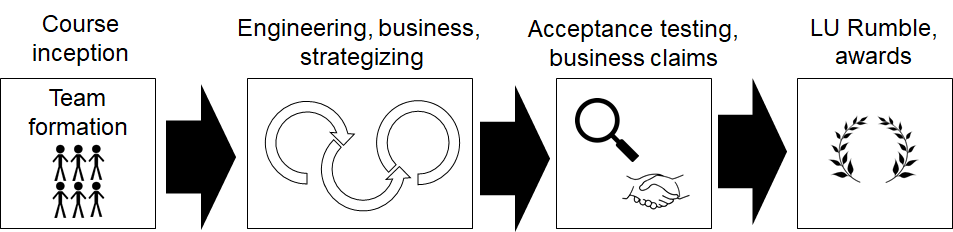
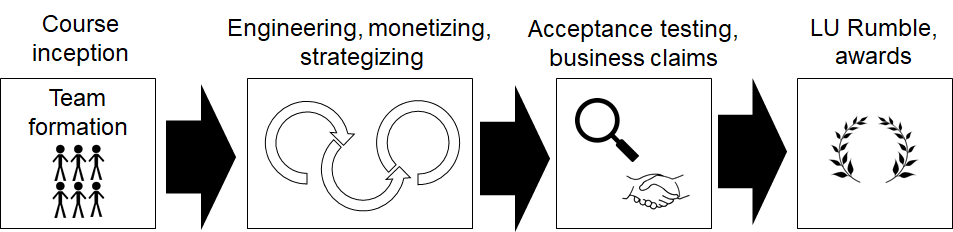
Added the project overview

Changed region(s): [[0.213, 0.0603, 0.5173, 0.181]]

diff --git a/project/rumble/ProjectInstructions.tex b/project/rumble/ProjectInstructions.tex
@@ -83,7 +83,7 @@ On top of your skills with traditional software engineering concepts and the too
 TODO: Make sure this is aligned with the formal course description.
 
 \section{Robocode -- Build the best, destroy the rest!}
-The goal of Robocode is to implement the behavior of a robot to compete against other robots in a battle arena. The contestants have no direct influence on the game, instead they write the AI of the robot telling it how to behave and react on events occurring in the battle arena. Battles are running in real-time and on-screen, see Figure~\ref{fig:screenshot}.
+The goal of Robocode is to implement the behavior of a robot to compete against other robots in a battle arena. The contestants have no direct influence on the game, instead they write the AI of the robot telling it how to behave and react on events occurring in the battle arena. Battles are running in real-time and on-screen, see Figure~\ref{fig:screenshot}. Robocode battles, referred to as ``rumbles'', are either in the form of duels between individual robots, free-for-all battles with multiple robots, or battles between robot teams.
 
 \begin{figure}
 \centering
@@ -97,26 +97,38 @@ Robocode offers complete development environment, and comes with its own install
 
 Robocode is an Open Source project, which means that all sources are open to everybody. In addition, Robocode is provided under the terms of EPL (Eclipse Public License). The Robocode game was originally started by Mathew A. Nelson as a personal endeavor in late 2000 and became a professional one when he brought it to IBM in July 2001. In the beginning of 2005, Mathew convinced IBM to release Robocode as Open Source on SourceForge. Eventually, Flemming N. Larsen took over the Robocode project at SourceForge as administrator and developer in July 2006 to continue the original Robocode game -- which now is hosted on GitHub.
 
+\section{Project overview}
+Each project team will develop a robot using established software engineering practices. Furthermore, each team will compose a robot team to compete in a ``LU Rumble'' at the final lecture in the course. However, no team is allowed to field their own robot -- instead robots developed by other teams must be purchased on an open market (in truth a somewhat regulated market). Consequently, each team has two primary goals: 1) maximizing profit by selling a successfully engineered robot on the market and 2) winning the LU Rumble by composing a competitive Robocode team. Teams pursue the two goals by completing three main activities that we refer to as \textit{strategizing}, \textit{engineering}, and \textit{monetizing}, respectively.
+
+Figure~\ref{fig:overview} shows the four main phases of the project. First, during the course inception, the course infrastructure and the project tasks are introduce. More importantly, teams consisting of six students (preferably!) are established. Second, the backbone of the course follows: three development sprints mixing engineering, monetizing, and strategizing. Third, purchasers of robots perform acceptance testing to ensure that the delivered robot fulfills the expectations -- otherwise purchasers file business claims to require money back. Fourth, in the last phase of the project, the LU Rumble takes place followed by an awards ceremony to recognize the both winners -- and the most profitable teams.
+
+\begin{figure}
+\centering
+\includegraphics[width=0.99\textwidth]{figures/projectOverview.png}
+\caption{Project overview.}
+\label{fig:overview}
+\end{figure}
+
+The project will be graded as 3, 4, 5 or UG. Project supervisors will in general evaluate the following:
+\begin{itemize}
+\item The final release meets the final requirements specification. This is partly indicated by the customer's successful acceptance testing.
+\item The delivered robot is successful and non-trivial.
+\item All the robots behaviors are covered by the requirements specification.
+\item The test specification describes a comprehensive verification of the robot. Automated test cases and test reports are provided.
+\item The team adhered to the process model and met all deadlines.
+\item All deliverables are of high quality.
+\end{itemize}
+
+\chapter{Strategizing to win the LU Rumble}
+
+\chapter{Engineering the robot}
+
 \begin{figure}
 \centering
 \includegraphics[width=0.50\textwidth]{figures/robotSide.jpg}
 \caption{Model of the Robocode robot (\copyright~Klaus Knopper under CC BY-SA 3.0).}
 \label{fig:overview}
 \end{figure}
-
-\section{Project overview}
-
-
-\begin{figure}
-\centering
-\includegraphics[width=0.85\textwidth]{figures/projectOverview.png}
-\caption{Project overview.}
-\label{fig:overview}
-\end{figure}
-
-\chapter{Mastering the domain -- LU Rumble}
-
-\chapter{Engineering the robot}
 
 \chapter{Monetizing the robot}
 After pitching the robot, all teams present a hidden purchase array representing what the team is willing to pay for each of the available robots. For each robot, the highest bidder establishes a customer relationship. If there is a tie, the business relations are assigned randomly.
